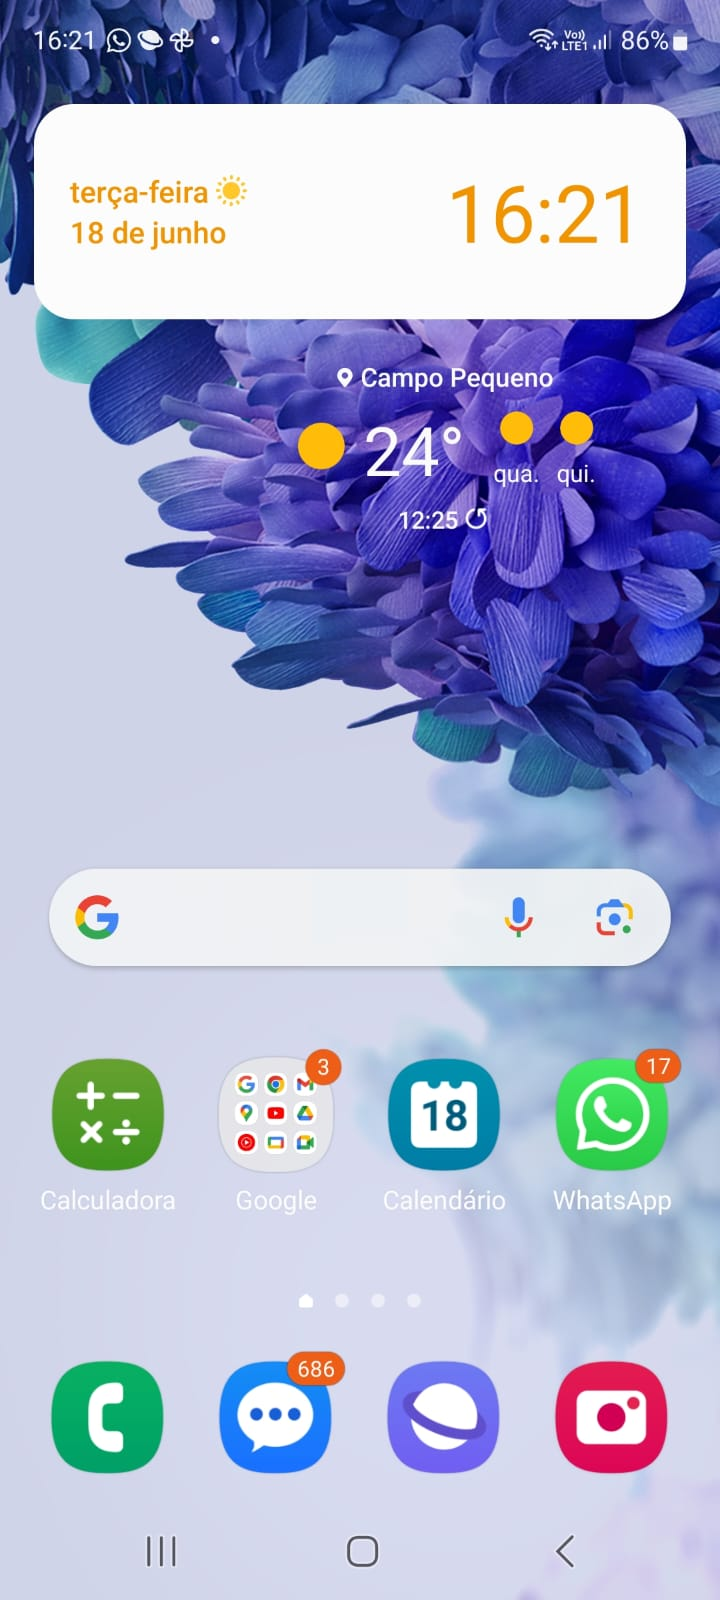
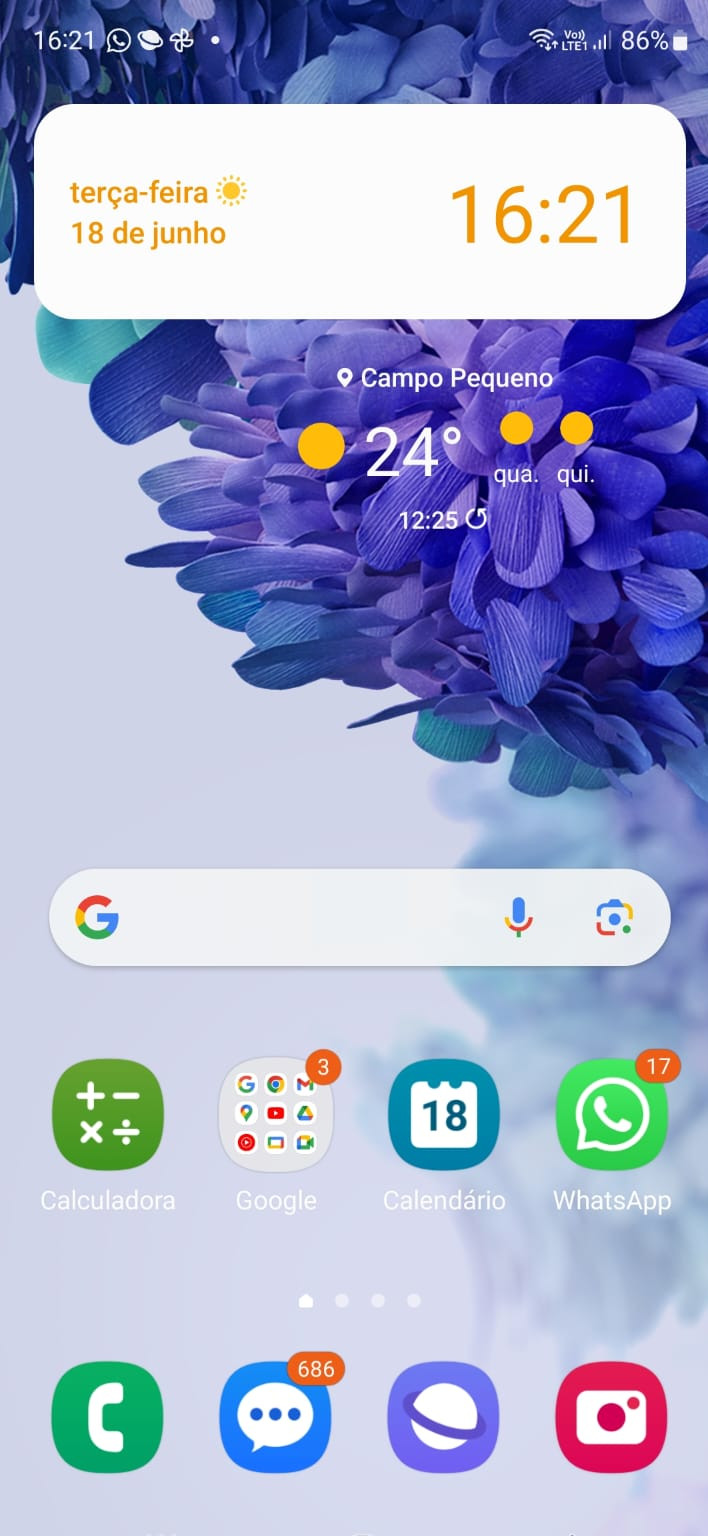
Mudança formatos de imagens

diff --git a/desafios/d014/estilos/styles.css b/desafios/d014/estilos/styles.css
@@ -33,7 +33,7 @@ section#telefone {
 
     height: 573px;
     width: 272px;
-    background: url('../imagens/samsung-galaxy.png') center center no-repeat;
+    background: url('../imagens/samsung-galaxy.jpg') center center no-repeat;
 }
 
 main #camera {
@@ -43,7 +43,7 @@ main #camera {
     height: 12px;
     top: 20px;
     left: 50%;
-    background: url('../imagens/camera.png');
+    background: url('../imagens/camera.png');   
 }
 
 iframe#tela {

diff --git a/desafios/d014/instagram.html b/desafios/d014/instagram.html
@@ -7,7 +7,7 @@
     <link rel="stylesheet" href="estilos/social.css">
 </head>
 <body>
-    <img src="imagens/tela-instagram.png" alt="Imagem da tela do Instagram">
+    <img src="imagens/tela-instagram.jpg" alt="Imagem da tela do Instagram">
     <a href="https://www.instagram.com/ogeneralista_tecnologia/" target="_blank" rel="external">Acesse aqui</a>
 </body>
 </html>

diff --git a/desafios/d014/youtube.html b/desafios/d014/youtube.html
@@ -7,7 +7,7 @@
     <link rel="stylesheet" href="estilos/social.css">
 </head>
 <body>
-    <img src="imagens/tela-youtube.png" alt="Imagem da tela do Youtube">
+    <img src="imagens/tela-youtube.jpg" alt="Imagem da tela do Youtube">
     <a href="https://www.youtube.com/@O.generalista" target="_blank" rel="external">Acesse aqui</a>
 </body>
 </html>

diff --git a/desafios/d014/github.html b/desafios/d014/github.html
@@ -7,7 +7,7 @@
     <link rel="stylesheet" href="estilos/social.css">
 </head>
 <body>
-    <img src="imagens/tela-github.png" alt="Imagem da tela do GitHub">
+    <img src="imagens/tela-github.jpg" alt="Imagem da tela do GitHub">
     <a href="https://www.github.com/pedro-makoski" target="_blank" rel="external">Acesse aqui</a>
 </body>
 </html>

diff --git a/desafios/d014/twitter.html b/desafios/d014/twitter.html
@@ -7,7 +7,7 @@
     <link rel="stylesheet" href="estilos/social.css">
 </head>
 <body>
-    <img src="imagens/tela-twitter.png" alt="Imagem da tela do X">
+    <img src="imagens/tela-twitter.jpg" alt="Imagem da tela do X">
     <a href="https://x.com/pedro_makoski" target="_blank" rel="external">Acesse aqui</a>
 </body>
 </html>
